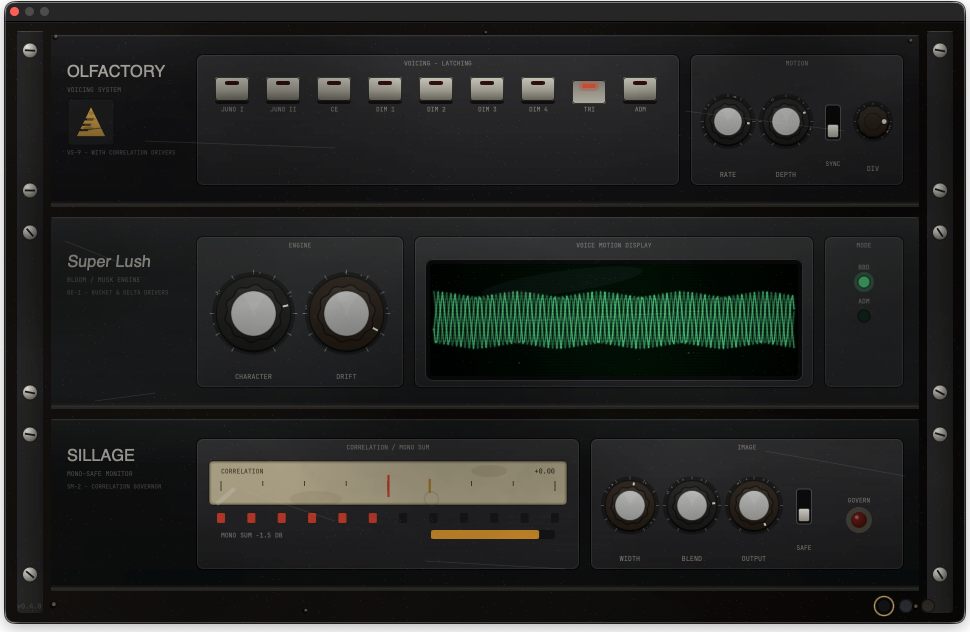
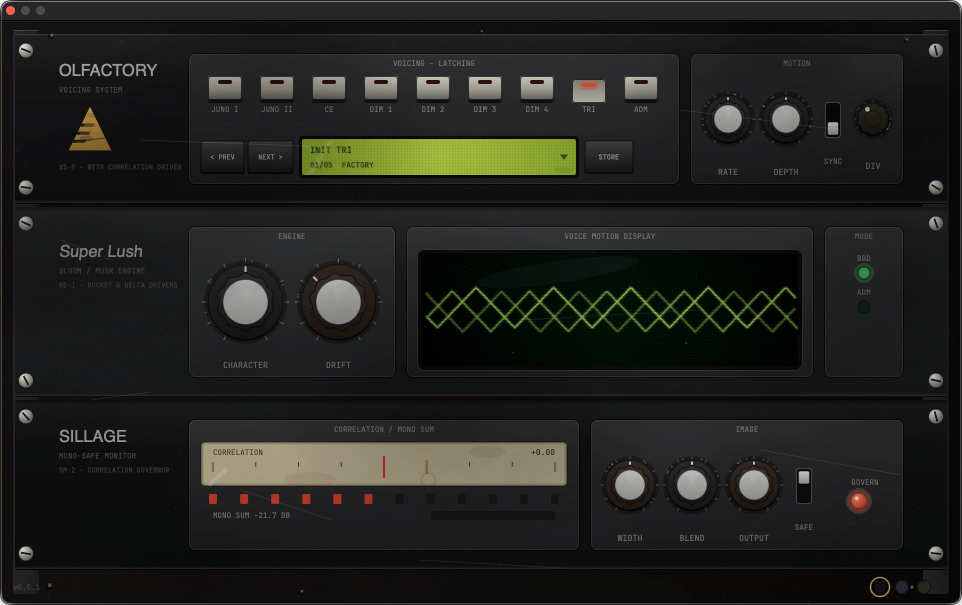
Add files via upload

diff --git a/store.html b/store.html
@@ -198,12 +198,12 @@
     </div>
     <div style="flex:1;display:flex;flex-direction:column">
       <a href="effek.html" style="display:grid;grid-template-columns:140px 1fr 300px;align-items:center;gap:30px;text-decoration:none;color:inherit;padding:25px 0;border-bottom:1px solid rgba(84,87,92,0.3);transition:0.4s" style-hover="border-bottom:1px solid #CFC5B6;padding-left:20px;background:rgba(220,205,191,0.02)">
-        <div style="width:140px;height:80px;border:1px solid #54575C;background:#050505;flex-shrink:0"><image-slot id="store-effek" src="assets/effek/hero.png?v=260727b" fit="contain" style="width:100%;height:100%" shape="rect" placeholder="EFFEK"></image-slot></div>
-        <div style="display:flex;flex-direction:column;justify-content:center"><span style="font-size:10px;color:#DCCDBF;font-weight:700;opacity:0.6;letter-spacing:1px;margin-bottom:4px">023_EFK</span><span style="font-size:22px;letter-spacing:8px;color:#B0B2B7;text-transform:uppercase;font-weight:700;margin-bottom:4px">EFFEK</span><span style="font-weight:300;font-size:11px;letter-spacing:3px;text-transform:uppercase;opacity:0.6;color:#81848A">1-Bit ADM Delay // Free Release</span></div>
-        <div style="display:flex;flex-direction:column;align-items:flex-end;gap:15px"><span style="font-weight:700;font-size:9px;letter-spacing:2px;text-transform:uppercase;color:#54575C">[DEVELOPMENT]</span><span style="border:1px solid #54575C;color:#81848A;padding:10px 15px;font-size:9px;letter-spacing:3px;font-weight:700;text-transform:uppercase">NOTIFY_ME</span></div>
+        <div style="width:140px;height:80px;border:1px solid #486E48;background:#050505;flex-shrink:0"><image-slot id="store-effek" src="assets/effek/hero.png?v=260729f" fit="contain" style="width:100%;height:100%" shape="rect" placeholder="EFFEK"></image-slot></div>
+        <div style="display:flex;flex-direction:column;justify-content:center"><span style="font-size:10px;color:#87B387;font-weight:700;opacity:0.9;letter-spacing:1px;margin-bottom:4px">023_EFK</span><span style="font-size:22px;letter-spacing:8px;color:#A6DCA6;text-transform:uppercase;font-weight:700;margin-bottom:4px">EFFEK</span><span style="font-weight:300;font-size:11px;letter-spacing:3px;text-transform:uppercase;opacity:0.6;color:#81848A">1-Bit ADM Delay // Free Release</span></div>
+        <div style="display:flex;flex-direction:column;align-items:flex-end;gap:15px"><span style="font-weight:700;font-size:9px;letter-spacing:2px;text-transform:uppercase;color:#6E9B6E">[AVAILABLE] // FREE</span><span style="border:1px solid #6E9B6E;color:#A6DCA6;padding:10px 15px;font-size:9px;letter-spacing:3px;font-weight:700;text-transform:uppercase">DOWNLOAD // MAC</span></div>
       </a>
       <a href="olfactory.html" style="display:grid;grid-template-columns:140px 1fr 300px;align-items:center;gap:30px;text-decoration:none;color:inherit;padding:25px 0;border-bottom:1px solid rgba(84,87,92,0.3);transition:0.4s" style-hover="border-bottom:1px solid #CFC5B6;padding-left:20px;background:rgba(220,205,191,0.02)">
-        <div style="width:140px;height:80px;border:1px solid #486E48;background:#050505;flex-shrink:0"><image-slot id="store-olfactory" src="assets/olfactory/hero.png?v=260729f" fit="contain" style="width:100%;height:100%" shape="rect" placeholder="OLFACTORY"></image-slot></div>
+        <div style="width:140px;height:80px;border:1px solid #486E48;background:#050505;flex-shrink:0"><image-slot id="store-olfactory" src="assets/olfactory/hero.png?v=260729g" fit="contain" style="width:100%;height:100%" shape="rect" placeholder="OLFACTORY"></image-slot></div>
         <div style="display:flex;flex-direction:column;justify-content:center"><span style="font-size:10px;color:#87B387;font-weight:700;opacity:0.9;letter-spacing:1px;margin-bottom:4px">024_OLF</span><span style="font-size:22px;letter-spacing:8px;color:#A6DCA6;text-transform:uppercase;font-weight:700;margin-bottom:4px">OLFACTORY</span><span style="font-weight:300;font-size:11px;letter-spacing:3px;text-transform:uppercase;opacity:0.6;color:#81848A">Mono-Safe Lush Chorus // Free Release</span></div>
         <div style="display:flex;flex-direction:column;align-items:flex-end;gap:15px"><span style="font-weight:700;font-size:9px;letter-spacing:2px;text-transform:uppercase;color:#6E9B6E">[AVAILABLE] // FREE</span><span style="border:1px solid #6E9B6E;color:#A6DCA6;padding:10px 15px;font-size:9px;letter-spacing:3px;font-weight:700;text-transform:uppercase">DOWNLOAD // MAC</span></div>
       </a>

diff --git a/free.html b/free.html
@@ -65,24 +65,24 @@ a{color:#DCCDBF}a:hover{color:#F0EDE6}
       </div>
     </a>
 
-    <a href="effek.html" style="border:1px solid #54575C;background:rgba(220,205,191,0.01);display:flex;flex-direction:column;transition:0.4s;text-decoration:none" style-hover="border-color:#CFC5B6;background:rgba(220,205,191,0.04);transform:translateY(-5px)">
-      <div style="width:100%;border-bottom:1px solid #54575C;background:#000;padding:24px;box-sizing:border-box;display:flex;align-items:center">
-        <image-slot id="free-effek" src="assets/effek/hero.png?v=260727b" fit="contain" style="width:100%;height:auto;aspect-ratio:970/522" shape="rect" placeholder="EFFEK Interface"></image-slot>
+    <a href="effek.html" style="border:1px solid #486E48;background:rgba(22,38,22,0.15);display:flex;flex-direction:column;transition:0.4s;text-decoration:none" style-hover="border-color:#6E9B6E;background:rgba(33,59,33,0.25);transform:translateY(-5px)">
+      <div style="width:100%;border-bottom:1px solid #486E48;background:#000;padding:24px;box-sizing:border-box;display:flex;align-items:center">
+        <image-slot id="free-effek" src="assets/effek/hero.png?v=260729f" fit="contain" style="width:100%;height:auto;aspect-ratio:970/522" shape="rect" placeholder="EFFEK Interface"></image-slot>
       </div>
       <div style="padding:24px;display:flex;flex-direction:column;flex:1">
-        <span style="font-size:10px;color:#DCCDBF;font-weight:700;opacity:0.6;letter-spacing:1px;margin-bottom:8px">023_EFK</span>
-        <h3 style="font-size:22px;letter-spacing:8px;color:#B0B2B7;margin:0 0 10px 0;text-transform:uppercase">EFFEK</h3>
-        <p style="font-weight:300;font-size:13px;color:#81848A;margin:0 0 26px 0;line-height:1.7;flex:1">1-Bit Adaptive Delta Modulation Delay. The actual one-bit codec at the actual clock — slope-overload warmth, breathing grain, true varispeed glide.</p>
-        <div style="display:flex;flex-wrap:wrap;gap:12px;justify-content:space-between;align-items:center;border-top:1px solid #54575C;padding-top:20px">
-          <span style="font-size:14px;font-weight:700;color:#DCCDBF;letter-spacing:2px;min-width:0;overflow-wrap:anywhere">FREE</span>
-          <span style="border:1px solid #54575C;color:#81848A;padding:12px 22px;text-transform:uppercase;font-weight:700;font-size:10px;letter-spacing:4px">NOTIFY_ME</span>
+        <span style="font-size:10px;color:#87B387;font-weight:700;opacity:0.9;letter-spacing:1px;margin-bottom:8px">023_EFK</span>
+        <h3 style="font-size:22px;letter-spacing:8px;color:#A6DCA6;margin:0 0 10px 0;text-transform:uppercase">EFFEK</h3>
+        <p style="font-weight:300;font-size:13px;color:#87B387;margin:0 0 26px 0;line-height:1.7;flex:1">1-Bit Adaptive Delta Modulation Delay. The actual one-bit codec at the actual clock — slope-overload warmth, breathing grain, true varispeed glide.</p>
+        <div style="display:flex;flex-wrap:wrap;gap:12px;justify-content:space-between;align-items:center;border-top:1px solid #486E48;padding-top:20px">
+          <span style="font-size:14px;font-weight:700;color:#A6DCA6;letter-spacing:2px;min-width:0;overflow-wrap:anywhere">FREE</span>
+          <span style="border:1px solid #6E9B6E;color:#A6DCA6;padding:12px 22px;text-transform:uppercase;font-weight:700;font-size:10px;letter-spacing:4px">DOWNLOAD // MAC</span>
         </div>
       </div>
     </a>
 
     <a href="olfactory.html" style="border:1px solid #486E48;background:rgba(22,38,22,0.15);display:flex;flex-direction:column;transition:0.4s;text-decoration:none" style-hover="border-color:#6E9B6E;background:rgba(33,59,33,0.25);transform:translateY(-5px)">
       <div style="width:100%;border-bottom:1px solid #486E48;background:#000;padding:24px;box-sizing:border-box">
-        <image-slot id="free-olfactory" src="assets/olfactory/hero.png?v=260729f" fit="contain" style="width:100%;height:auto;aspect-ratio:970/522" shape="rect" placeholder="OLFACTORY Interface"></image-slot>
+        <image-slot id="free-olfactory" src="assets/olfactory/hero.png?v=260729g" fit="contain" style="width:100%;height:auto;aspect-ratio:970/522" shape="rect" placeholder="OLFACTORY Interface"></image-slot>
       </div>
       <div style="padding:24px;display:flex;flex-direction:column;flex:1">
         <span style="font-size:10px;color:#87B387;font-weight:700;opacity:0.9;letter-spacing:1px;margin-bottom:8px">024_OLF</span>

diff --git a/effek.html b/effek.html
@@ -36,7 +36,7 @@
 
   <div style="margin-bottom:40px;max-width:1100px;margin-left:auto;margin-right:auto">
     <span style="font-size:10px;color:#DCCDBF;letter-spacing:4px;text-transform:uppercase;margin-bottom:15px;display:block;opacity:0.6">Primary Chassis // ADM 1024 Rack</span>
-    <div style="overflow:hidden;border-radius:2px"><image-slot id="effek-hero" src="assets/effek/hero.png?v=260727b" onClick="{{ openHero }}" style="width:100%;aspect-ratio:1290/258;transition:transform 0.5s cubic-bezier(0.2,0.6,0.2,1);cursor:zoom-in" style-hover="transform:scale(1.03)" shape="rect" placeholder="EFFEK Interface"></image-slot></div>
+    <div style="overflow:hidden;border-radius:2px"><image-slot id="effek-hero" src="assets/effek/hero.png?v=260729f" onClick="{{ openHero }}" style="width:100%;aspect-ratio:1290/258;transition:transform 0.5s cubic-bezier(0.2,0.6,0.2,1);cursor:zoom-in" style-hover="transform:scale(1.03)" shape="rect" placeholder="EFFEK Interface"></image-slot></div>
   </div>
 
   <div style="max-width:850px;margin:0 auto 60px auto;border-left:1px solid #CFC5B6;padding-left:40px">
@@ -44,10 +44,11 @@
   </div>
 
   <section style="margin:0 auto 100px auto;max-width:600px;text-align:center">
-    <span style="font-size:10px;letter-spacing:4px;color:#DCCDBF;margin-bottom:15px;display:block;font-weight:700">DEVELOPMENT_STATUS // FREE_RELEASE</span>
-    <div style="background:rgba(220,205,191,0.02);border:1px solid #54575C;padding:40px">
-      <p style="font-size:11px;font-weight:400;letter-spacing:2px;opacity:0.6;margin-bottom:30px;text-transform:uppercase;color:#81848A">Chassis is in final calibration. EFFEK will ship completely free — no account, no unlock, no upsell. A classic this good deserves to be back in everyone's rack.</p>
-      <a href="mailto:hello@thetaaudioresearch.com?subject=EFFEK%20updates" style="display:block;text-align:center;border:1px solid #DCCDBF;color:#DCCDBF;padding:25px;text-decoration:none;font-weight:700;font-size:12px;letter-spacing:6px;transition:0.4s" style-hover="background:#DCCDBF;color:#000000">NOTIFY_ME_AT_LAUNCH</a>
+    <span style="font-size:10px;letter-spacing:4px;color:#A6DCA6;margin-bottom:15px;display:block;font-weight:700">DEPLOYMENT_STATUS</span>
+    <div style="background:rgba(22,38,22,0.15);border:1px solid #486E48;padding:40px">
+      <p style="font-size:11px;font-weight:400;letter-spacing:2px;opacity:0.75;margin-bottom:30px;text-transform:uppercase;color:#87B387">Shipping now, completely free — no account, no unlock, no upsell. The actual one-bit codec at the actual clock, broken modes included. A classic this good deserves to be back in everyone's rack.</p>
+      <a href="downloads/EFFEK_v0.1.12_Installer.dmg" download style="display:block;text-align:center;border:1px solid #6E9B6E;color:#A6DCA6;padding:25px;text-decoration:none;font-weight:700;font-size:12px;letter-spacing:6px;transition:0.4s" style-hover="background:#6E9B6E;color:#000000">DOWNLOAD_FREE // MACOS</a>
+      <p style="font-size:9px;letter-spacing:3px;text-transform:uppercase;color:#54575C;margin:18px 0 0 0;font-weight:700">macOS Apple Silicon &amp; Intel · VST3 / AU · Windows build in progress</p>
     </div>
   </section>
 
@@ -171,7 +172,7 @@ class Component extends DCLogic {
       setZoomImg: (el) => { this._zoomImgEl = el; if (el && z) el.src = z.src; },
       closeZoom: () => this.setState({ zoomed: null }),
       stopClick: (e) => e.stopPropagation(),
-      openHero: this._mk('assets/effek/hero.png?v=260727b', 2600, 1290 / 258),
+      openHero: this._mk('assets/effek/hero.png?v=260729f', 2600, 1290 / 258),
     };
   }
 }

diff --git a/index.html b/index.html
@@ -204,10 +204,10 @@
     </div>
     <div style="flex:1;display:flex;flex-direction:column">
       <a href="effek.html" style="display:grid;grid-template-columns:70px minmax(0,300px) 1fr 100px;column-gap:16px;align-items:center;text-decoration:none;color:inherit;padding:25px 24px;width:100%;box-sizing:border-box;border-bottom:1px solid rgba(84,87,92,0.3);transition:all 0.4s ease" style-hover="background:rgba(220,205,191,0.03);border-bottom:1px solid #CFC5B6;transform:translateX(30px)">
-        <span style="font-size:10px;color:#DCCDBF;font-weight:700;opacity:0.6;letter-spacing:1px">023_EFK</span>
-        <span style="font-size:24px;letter-spacing:5px;color:#B0B2B7;text-transform:uppercase;font-weight:700;white-space:nowrap" style-hover="color:#DCCDBF">EFFEK</span>
+        <span style="font-size:10px;color:#87B387;font-weight:700;opacity:0.9;letter-spacing:1px">023_EFK</span>
+        <span style="font-size:24px;letter-spacing:5px;color:#A6DCA6;text-transform:uppercase;font-weight:700;white-space:nowrap" style-hover="color:#DCCDBF">EFFEK</span>
         <span style="font-weight:300;font-size:10px;letter-spacing:4px;text-transform:uppercase;opacity:0.5;text-align:right" style-hover="color:#B0B2B7;opacity:1">1-Bit Adaptive Delta Modulation Delay</span>
-        <span style="font-weight:700;font-size:9px;letter-spacing:2px;text-transform:uppercase;text-align:right;color:#54575C">[DEVELOPMENT]</span>
+        <span style="font-weight:700;font-size:9px;letter-spacing:2px;text-transform:uppercase;text-align:right;color:#6E9B6E">[AVAILABLE]</span>
       </a>
       <a href="olfactory.html" style="display:grid;grid-template-columns:70px minmax(0,300px) 1fr 100px;column-gap:16px;align-items:center;text-decoration:none;color:inherit;padding:25px 24px;width:100%;box-sizing:border-box;border-bottom:1px solid rgba(84,87,92,0.3);transition:all 0.4s ease" style-hover="background:rgba(220,205,191,0.03);border-bottom:1px solid #CFC5B6;transform:translateX(30px)">
         <span style="font-size:10px;color:#87B387;font-weight:700;opacity:0.9;letter-spacing:1px">024_OLF</span>

diff --git a/olfactory.html b/olfactory.html
@@ -36,7 +36,7 @@
 
   <div style="margin-bottom:40px;max-width:1000px;margin-left:auto;margin-right:auto">
     <span style="font-size:10px;color:#DCCDBF;letter-spacing:4px;text-transform:uppercase;margin-bottom:15px;display:block;opacity:0.6">Primary Chassis // TRI Voicing, Three Voices</span>
-    <div style="overflow:hidden;border-radius:2px"><image-slot id="olfactory-hero" src="assets/olfactory/hero.png?v=260729f" onClick="{{ openHero }}" style="width:100%;aspect-ratio:970/632;transition:transform 0.5s cubic-bezier(0.2,0.6,0.2,1);cursor:zoom-in" style-hover="transform:scale(1.04)" shape="rect" placeholder="OLFACTORY Interface"></image-slot></div>
+    <div style="overflow:hidden;border-radius:2px"><image-slot id="olfactory-hero" src="assets/olfactory/hero.png?v=260729g" onClick="{{ openHero }}" style="width:100%;aspect-ratio:962/605;transition:transform 0.5s cubic-bezier(0.2,0.6,0.2,1);cursor:zoom-in" style-hover="transform:scale(1.04)" shape="rect" placeholder="OLFACTORY Interface"></image-slot></div>
   </div>
 
   <div style="max-width:850px;margin:0 auto 60px auto;border-left:1px solid #CFC5B6;padding-left:40px">
@@ -185,7 +185,7 @@ class Component extends DCLogic {
       setZoomImg: (el) => { this._zoomImgEl = el; if (el && z) el.src = z.src; },
       closeZoom: () => this.setState({ zoomed: null }),
       stopClick: (e) => e.stopPropagation(),
-      openHero: this._mk('assets/olfactory/hero.png?v=260729f', 2200, 970 / 632),
+      openHero: this._mk('assets/olfactory/hero.png?v=260729g', 962, 962 / 605),
     };
   }
 }

diff --git a/downloads/README.md b/downloads/README.md
@@ -9,6 +9,7 @@ exact filenames the pages link to, and re-zip.
 |---|---|---|
 | `ENTROPY_v0.1.6.dmg` | entropy.html (DOWNLOAD_FREE // MACOS) | live |
 | `OLFACTORY_v0.5.0.dmg` | olfactory.html (DOWNLOAD_FREE // MACOS) | live |
+| `EFFEK_v0.1.12_Installer.dmg` | effek.html (DOWNLOAD_FREE // MACOS) | live |
 
 ## Rules
 
